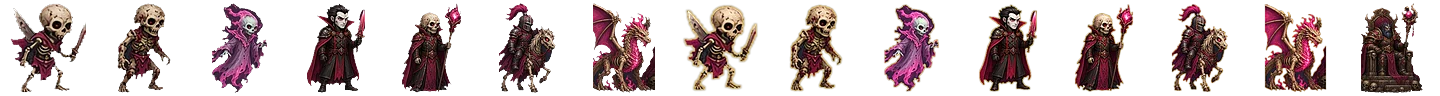
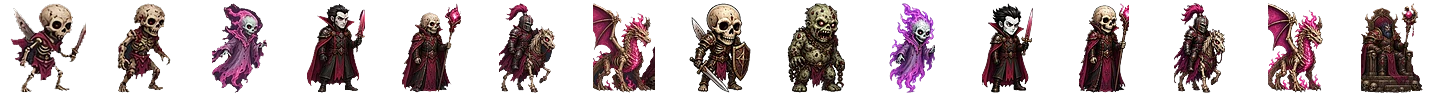
Mini Heroes 1.5.0-dev: Broz redone T1-T7 sheets + T8 replacements (Bear Rider, Arch Fiend, Phoenix, Thunder Titan), real upgrade sprites for all 6 factions, Dwarf T8 renamed Mountain King (old saves migrated), Broz fog-edge strip

Changed region(s): [[0.4688, 0.0312, 0.9375, 0.9688]]

diff --git a/sw.js b/sw.js
@@ -1,4 +1,4 @@
-const V='mg-v28-miniheroes-150',SHELL=['games/miniheroes/','games/miniheroes/data.js','games/miniheroes/sprites.js','games/miniheroes/game.js','games/miniheroes/campaign.js','games/miniheroes/meet.js','games/miniheroes/ui-art-data.js','games/miniheroes/ui-art.js','games/miniheroes/art/icons.webp','games/miniheroes/art/battle-props.webp','games/miniheroes/art/events.webp','games/miniheroes/art/home.webp','games/miniheroes/art/home-i0.webp','games/miniheroes/art/home-i1.webp','games/miniheroes/art/home-i2.webp','games/miniheroes/art/home-i3.webp','games/miniheroes/art/home-i4.webp','games/miniheroes/art/win.webp','games/miniheroes/art/lose.webp','games/miniheroes/render-pixi.js','games/miniheroes/vendor/pixi.min.js','games/miniheroes/art/units.json','games/miniheroes/art/map.json','games/miniheroes/art/map-ground.webp','games/miniheroes/art/map-sprites.webp','games/miniheroes/art/battle-field.webp','games/miniheroes/art/units-castle-ui.webp','games/miniheroes/art/units-necro-ui.webp','games/miniheroes/art/units-sylvan-ui.webp','games/miniheroes/art/units-inferno-ui.webp','games/miniheroes/art/units-stronghold-ui.webp','games/miniheroes/art/units-dwarf-ui.webp','games/miniheroes/art/units-castle.webp','games/miniheroes/art/units-necro.webp','games/miniheroes/art/units-sylvan.webp','games/miniheroes/art/units-inferno.webp','games/miniheroes/art/units-stronghold.webp','games/miniheroes/art/units-dwarf.webp','games/miniheroes/art/town-castle.webp','games/miniheroes/art/town-necro.webp','games/miniheroes/art/town-sylvan.webp','games/miniheroes/art/town-inferno.webp','games/miniheroes/art/town-stronghold.webp','games/miniheroes/art/town-dwarf.webp','games/snake/','games/tank/','games/2048/','games/skyhop/','fonts/PressStart2P.woff2','./','index.html','style.css','ads.js','games.json','manifest.webmanifest','icons/icon-192.png','icons/icon-512.png'];
+const V='mg-v28-miniheroes-150',SHELL=['games/miniheroes/','games/miniheroes/data.js','games/miniheroes/sprites.js','games/miniheroes/game.js','games/miniheroes/campaign.js','games/miniheroes/meet.js','games/miniheroes/ui-art-data.js','games/miniheroes/ui-art.js','games/miniheroes/art/icons.webp','games/miniheroes/art/battle-props.webp','games/miniheroes/art/events.webp','games/miniheroes/art/home.webp','games/miniheroes/art/home-i0.webp','games/miniheroes/art/home-i1.webp','games/miniheroes/art/home-i2.webp','games/miniheroes/art/home-i3.webp','games/miniheroes/art/home-i4.webp','games/miniheroes/art/win.webp','games/miniheroes/art/lose.webp','games/miniheroes/art/fog-edge.webp','games/miniheroes/render-pixi.js','games/miniheroes/vendor/pixi.min.js','games/miniheroes/art/units.json','games/miniheroes/art/map.json','games/miniheroes/art/map-ground.webp','games/miniheroes/art/map-sprites.webp','games/miniheroes/art/battle-field.webp','games/miniheroes/art/units-castle-ui.webp','games/miniheroes/art/units-necro-ui.webp','games/miniheroes/art/units-sylvan-ui.webp','games/miniheroes/art/units-inferno-ui.webp','games/miniheroes/art/units-stronghold-ui.webp','games/miniheroes/art/units-dwarf-ui.webp','games/miniheroes/art/units-castle.webp','games/miniheroes/art/units-necro.webp','games/miniheroes/art/units-sylvan.webp','games/miniheroes/art/units-inferno.webp','games/miniheroes/art/units-stronghold.webp','games/miniheroes/art/units-dwarf.webp','games/miniheroes/art/town-castle.webp','games/miniheroes/art/town-necro.webp','games/miniheroes/art/town-sylvan.webp','games/miniheroes/art/town-inferno.webp','games/miniheroes/art/town-stronghold.webp','games/miniheroes/art/town-dwarf.webp','games/snake/','games/tank/','games/2048/','games/skyhop/','fonts/PressStart2P.woff2','./','index.html','style.css','ads.js','games.json','manifest.webmanifest','icons/icon-192.png','icons/icon-512.png'];
 self.addEventListener('install',e=>{e.waitUntil(caches.open(V).then(c=>c.addAll(SHELL)));self.skipWaiting()});
 self.addEventListener('activate',e=>{e.waitUntil(caches.keys().then(k=>Promise.all(k.filter(n=>n!==V).map(n=>caches.delete(n)))).then(()=>self.clients.claim()))});
 self.addEventListener('fetch',e=>{const r=e.request,u=new URL(r.url);if(r.method!=='GET'||u.origin!==location.origin)return;

diff --git a/games/miniheroes/ui-art.js b/games/miniheroes/ui-art.js
@@ -43,12 +43,28 @@
     g.globalAlpha = pa * Math.min(1, (1 - t) * 3); g.drawImage(c, x - w / 2, y - w / 2 - (e.k === 'lightning' ? w * 0.25 : 0), w, w); g.globalAlpha = pa;
   };
   // ---- soft fog edges: 1 px per tile, scaled up with smoothing (a cheap gradient; no per-pixel loops)
-  drawFog = function (c) {
+  // Broz fog edge strip (dark left -> clear right, tiles along y), rotated per side over revealed tiles next to fog
+  const fogEdge = img('fog-edge.webp'); fogEdge.onload = () => { try { if (layers) layers.fogN = -1; } catch (e) {} };
+  const softFog = function (c) {
     c.width = WW; c.height = WH; const g = c.getContext('2d'), s = document.createElement('canvas'); s.width = MW + 2; s.height = MH + 2; const sg = s.getContext('2d');
     sg.fillStyle = '#05050c'; sg.fillRect(0, 0, MW + 2, MH + 2); for (let y = 0; y < MH; y++) for (let x = 0; x < MW; x++) if (G.fog[y][x]) sg.clearRect(x + 1, y + 1, 1, 1);
     const m = document.createElement('canvas'); m.width = (MW + 2) * 4; m.height = (MH + 2) * 4; const mg = m.getContext('2d'); mg.imageSmoothingEnabled = true; mg.drawImage(s, 0, 0, m.width, m.height);
     g.imageSmoothingEnabled = true; g.drawImage(m, -TS, -TS, (MW + 2) * TS, (MH + 2) * TS);
     for (let y = 0; y < MH; y++) for (let x = 0; x < MW; x++) if (!G.fog[y][x]) { let n = 0; for (const [dx, dy] of DIRS8) if (inMap(x + dx, y + dy) && G.fog[y + dy][x + dx]) n++; if (!n) { g.fillStyle = '#05050c'; g.fillRect(x * TS, y * TS, TS, TS); } }
+  };
+  drawFog = function (c) {
+    if (!fogEdge.complete || !fogEdge.naturalWidth) return softFog(c);
+    c.width = WW; c.height = WH; const g = c.getContext('2d'); g.fillStyle = '#05050c'; g.imageSmoothingEnabled = true;
+    const fogged = (x, y) => inMap(x, y) && !G.fog[y][x], D = TS * 0.8, sh = fogEdge.naturalHeight / 4;
+    for (let y = 0; y < MH; y++) for (let x = 0; x < MW; x++) if (!G.fog[y][x]) g.fillRect(x * TS, y * TS, TS, TS);
+    for (let y = 0; y < MH; y++) for (let x = 0; x < MW; x++) {
+      if (!G.fog[y][x]) continue;
+      for (const [dx, dy, rot] of [[-1, 0, 0], [0, -1, 1], [1, 0, 2], [0, 1, 3]]) {
+        if (!fogged(x + dx, y + dy)) continue;
+        const sy = ((x * 7 + y * 13 + rot) % 4) * sh; g.save(); g.translate(x * TS + TS / 2, y * TS + TS / 2); g.rotate(rot * Math.PI / 2);
+        g.drawImage(fogEdge, 0, sy, fogEdge.naturalWidth, sh, -TS / 2, -TS / 2 - 2, D, TS + 4); g.restore();
+      }
+    }
   };
   // ---- shrine / spell learning popup + artifact popup art
   CELE_COL.spell = ['#b07cff', '#e2ccff'];

diff --git a/games/miniheroes/campaign.js b/games/miniheroes/campaign.js
@@ -3,9 +3,10 @@
 'use strict';
 const CAMP_KEY = 'mh-campaign';
 // Tier-8 mythical creatures (one per player, quest reward only)
-const MYTHIC = {castle: 'Archangel', necro: 'Lich King', sylvan: 'Phoenix', inferno: 'Arch Fiend', stronghold: 'Thunder Titan', dwarf: 'Forge Colossus'};
+const MYTHIC = {castle: 'Archangel', necro: 'Lich King', sylvan: 'Phoenix', inferno: 'Arch Fiend', stronghold: 'Thunder Titan', dwarf: 'Mountain King'};
 const MYTHIC_BASE = {castle: 'Champion', necro: 'Ghost Dragon', sylvan: 'Emerald Dragon', inferno: 'Arch Devil', stronghold: 'Ancient Behemoth', dwarf: 'Thunder Dreadnought'};
 for (const f in MYTHIC) { const b = UNITS[MYTHIC_BASE[f]]; UNITS[MYTHIC[f]] = {...b, fac: f, tier: 7, up: true, upName: null, base: MYTHIC[f], att: b.att + 6, def: b.def + 6, hp: Math.round(b.hp * 1.8), dmg: b.dmg.map(d => Math.round(d * 1.5)), move: b.move + 1, ab: [...new Set([...b.ab, 'Fly', 'SpellImm'])], cost: 9000, growth: 0, col: '#fcfc54', mythic: 1}; }
+UNITS['Forge Colossus'] = UNITS['Mountain King']; // 1.5 rename (old saves / campaign carry)
 SPR.mythicLook && SPR.mythicLook(MYTHIC_BASE, MYTHIC);
 const SAY = (who, t) => ({who, t});
 const MISSIONS = [

diff --git a/games/miniheroes/data.js b/games/miniheroes/data.js
@@ -56,7 +56,7 @@ const UNIT_DEFS = [
 ];
 const FACTION_UNITS = {};
 // 1.3 hex-field retune (6 neighbours, 22x16 wrapped field): price multiplier per faction for tiers 1-3 / 4-5 / 6-7
-const HEX_TUNE = {castle: [1.016, 0.94, 0.985], necro: [0.95, 1.04, 0.93], sylvan: [1.02, 0.97, 0.93], inferno: [0.992, 0.98, 1.035], stronghold: [1.012, 1.04, 1.025], dwarf: [0.995, 0.97, 1.0]};
+const HEX_TUNE = {castle: [1.016, 0.94, 0.985], necro: [0.95, 1.04, 0.97], sylvan: [1.02, 0.97, 0.88], inferno: [0.992, 0.98, 1.035], stronghold: [1.012, 1.04, 1.025], dwarf: [0.995, 0.97, 1.0]};
 for (const [fac, tier, base, up, ab, ab2, m, col] of UNIT_DEFS) {
   const [att, def, hp, dmg, move, cost, growth] = TIER_T[tier];
   const mk = (name, isUp) => {

diff --git a/games/miniheroes/game.js b/games/miniheroes/game.js
@@ -2030,6 +2030,7 @@ function migrate(g) {
   }
   g.heroes.forEach(h => { h.sk = h.sk || {}; if (!h.tal) { h.tal = {}; h.tp = Math.max(0, h.lvl - 1); } });
   setDims(g.map); layers = null;
+  const ren = a => a && a.forEach(s => { if (s.type === 'Forge Colossus') s.type = 'Mountain King'; }); (g.heroes || []).forEach(h => ren(h.army)); (g.towns || []).forEach(t => ren(t.garrison));
   return g;
 }
 function startGame(fn, note) {

diff --git a/tools/miniheroes-art/build_atlas.py b/tools/miniheroes-art/build_atlas.py
@@ -25,7 +25,7 @@ FACTIONS = {
   'sylvan': (['Sprite', 'Wolf Rider', 'Elf Archer', 'Druid', 'Unicorn', 'Treant', 'Green Dragon'], ['Faerie', 'Moon Rider', 'Grand Elf', 'Elder Druid', 'Silver Unicorn', 'Ancient Treant', 'Emerald Dragon'], 'Phoenix'),
   'inferno': (['Imp', 'Hell Hound', 'Succubus', 'Demon', 'Efreet', 'Pit Fiend', 'Devil'], ['Familiar', 'Cerberus', 'Temptress', 'Horned Demon', 'Efreet Sultan', 'Pit Lord', 'Arch Devil'], 'Arch Fiend'),
   'stronghold': (['Goblin', 'Wolf Raider', 'Orc Axeman', 'Ogre Shaman', 'Roc', 'Cyclops', 'Behemoth'], ['Hobgoblin', 'Warg Raider', 'Orc Chieftain', 'Ogre Magi', 'Thunderbird', 'Cyclops King', 'Ancient Behemoth'], 'Thunder Titan'),
-  'dwarf': (['Miner', 'Shieldbearer', 'Crossbow Engineer', 'Runesmith', 'Bear Rider', 'Steam Golem', 'Iron Dreadnought'], ['Foreman', 'Shieldguard', 'Siege Engineer', 'Runelord', 'Bear Lord', 'Iron Golem', 'Thunder Dreadnought'], 'Forge Colossus'),
+  'dwarf': (['Miner', 'Shieldbearer', 'Crossbow Engineer', 'Runesmith', 'Bear Rider', 'Steam Golem', 'Iron Dreadnought'], ['Foreman', 'Shieldguard', 'Siege Engineer', 'Runelord', 'Bear Lord', 'Iron Golem', 'Thunder Dreadnought'], 'Mountain King'),
 }
 MYTHIC_ORDER = ['castle', 'necro', 'sylvan', 'inferno', 'stronghold', 'dwarf']
 CUTS = {'castle-base': [172, 352, 481, 700, 875, 1019], 'castle-up': [185, 362, 506, 722, 893, 1030],
@@ -152,9 +152,15 @@ def frames(fig, fly):
 
 # ---- Broz's chibi sheets (navy background, 8 figures T1..T8 with labels underneath) ----
 BROZ = {  # faction: (sheet in src/broz, Broz column -> data tier order)
-    'necro': (1, [0, 1, 2, 3, 4, 5, 6]), 'sylvan': (0, [0, 1, 2, 3, 4, 5, 6]),
-    'inferno': (11, [0, 1, 3, 2, 4, 5, 6]),      # Broz T3 horned demon = our T4 Demon, Broz T4 succubus = our T3 Succubus
-    'stronghold': (10, [0, 1, 2, 3, 4, 5, 6]), 'dwarf': (9, [0, 2, 1, 3, 4, 5, 6])}  # Broz T2 crossbow / T3 shield swapped vs data
+    # redone sheets (Nov 1): T1-T7 match the data order
+    'necro': (23, [0, 1, 2, 3, 4, 5, 6]), 'sylvan': (22, [0, 1, 2, 3, 4, 5, 6]), 'inferno': (20, [0, 1, 2, 3, 4, 5, 6]),
+    'stronghold': (21, [0, 1, 2, 3, 4, 5, 6]), 'dwarf': (19, [0, 1, 2, 3, 4, 5, 6])}
+# replacement sheet (white bg, 4 figures with captions): (column -> faction, slot) where slot 0-6 = base tier, 7 = mythic
+FIX_SHEET, FIXES = 18, {0: ('dwarf', 4), 1: ('inferno', 7), 2: ('sylvan', 7), 3: ('stronghold', 7)}
+def fix_figs():
+    im = Image.open(os.path.join(HERE, 'src', 'broz', str(FIX_SHEET) + '.jpg')).convert('RGB'); w, h = im.size
+    im = im.crop((0, 0, w, int(h * 0.74))); rgba = cut_background(im); q = w // 4
+    return [clean(rgba.crop((i * q, 0, (i + 1) * q, rgba.height))) for i in range(4)]
 ARCHANGEL = 8
 def cut_navy(im):
     im = im.convert('RGB'); w, h = im.size; px = im.load()
@@ -193,11 +199,51 @@ def elite(fig):  # upgraded look for Broz's base art: warm gold rim + a touch br
     big = Image.new('L', (W2, H2), 0); big.paste(a, (pad, pad)); rim = big.filter(ImageFilter.MaxFilter(5)).filter(ImageFilter.GaussianBlur(1.2))
     out = Image.new('RGBA', (W2, H2), (255, 196, 64, 0)); out.putalpha(rim.point(lambda v: int(v * 0.85)))
     f2 = ImageEnhance.Color(ImageEnhance.Brightness(fig).enhance(1.08)).enhance(1.18); out.alpha_composite(f2, (pad, pad)); return out
+def drop_edge_bits(im):  # remove neighbour fragments: alpha blobs touching the left/right crop edge that are much smaller than the main figure
+    a = im.getchannel('A'); w, h = a.size; px = a.load(); lab = [0] * (w * h); comps = []
+    for y0 in range(h):
+        for x0 in range(w):
+            if px[x0, y0] < 40 or lab[y0 * w + x0]: continue
+            cid = len(comps) + 1; st = [(x0, y0)]; lab[y0 * w + x0] = cid; n = 0; edge = False; pts = []
+            while st:
+                x, y = st.pop(); n += 1; pts.append((x, y)); edge |= x <= 1 or x >= w - 2
+                for nx, ny in ((x + 1, y), (x - 1, y), (x, y + 1), (x, y - 1)):
+                    if 0 <= nx < w and 0 <= ny < h and not lab[ny * w + nx] and px[nx, ny] >= 40: lab[ny * w + nx] = cid; st.append((nx, ny))
+            comps.append((n, edge, pts))
+    if not comps: return im
+    big = max(c[0] for c in comps); out = im.copy(); op = out.load()
+    for n, edge, pts in comps:
+        if edge and n < big * 0.3:
+            for x, y in pts: op[x, y] = (0, 0, 0, 0)
+    return out
+UPSHEET = {'dwarf': 25, 'stronghold': 26, 'sylvan': 27, 'inferno': 28, 'castle': 29, 'necro': 30}  # Broz upgrade sheets: white bg, T1-T7 upgraded, captions below
+def up_figs(fac, n=7):
+    im = Image.open(os.path.join(HERE, 'src', 'broz', str(UPSHEET[fac]) + '.jpg')).convert('RGB'); w, h = im.size; px = im.load()
+    rows = [sum(1 for x in range(0, w, 2) if max(px[x, y]) < 110) for y in range(h)]
+    y = h - 1
+    while y > h // 2 and rows[y] < 2: y -= 1
+    bot = y
+    while y > h // 2 and any(rows[yy] >= 2 for yy in range(max(0, y - 14), y)): y -= 1
+    top = y - 4
+    cols = [sum(1 for yy in range(top + 4, bot + 1) if max(px[x, yy]) < 110) for x in range(w)]
+    cl, x = [], 0
+    while x < w:
+        if cols[x]:
+            s0 = e0 = x
+            while x < w and (cols[x] or any(cols[x:x + 26])): e0 = x if cols[x] else e0; x += 1
+            cl.append((s0 + e0) / 2)
+        x += 1
+    if len(cl) != n: raise SystemExit(f'upgrade sheet {fac}: found {len(cl)} captions, expected {n}')
+    rgba = cut_background(im.crop((0, 0, w, top)))
+    cuts = [0] + [round((cl[i] + cl[i + 1]) / 2) for i in range(n - 1)] + [w]
+    return [clean(drop_edge_bits(rgba.crop((cuts[i], 0, cuts[i + 1], rgba.height)))) for i in range(n)]
+def match_h(figs, ref, k=1.06):  # size each upgrade to its base figure (upgrades read slightly bigger)
+    return [f.resize((max(1, round(f.width * r.height * k / f.height)), round(r.height * k)), Image.LANCZOS) for f, r in zip(figs, ref)]
 def broz_figs(idx, n=8):
     rgba = cut_navy(Image.open(os.path.join(HERE, 'src', 'broz', str(idx) + '.jpg'))); c = rgba.info['centers']
     if len(c) != n: raise SystemExit(f'broz sheet {idx}: found {len(c)} labels, expected {n}')
     cuts = [0] + [round((c[i] + c[i + 1]) / 2) for i in range(n - 1)] + [rgba.width]
-    return [clean(rgba.crop((cuts[i], 0, cuts[i + 1], rgba.height))) for i in range(n)]
+    return [clean(drop_edge_bits(rgba.crop((cuts[i], 0, cuts[i + 1], rgba.height)))) for i in range(n)]
 
 def main():
     os.makedirs(OUT, exist_ok=True); os.makedirs(PREV, exist_ok=True)
@@ -205,7 +251,7 @@ def main():
     o = 0
     for k, n in ANIMS.items(): man['anims'][k] = [o, n]; o += n
     nfr = o; myth = {}
-    mfigs = None
+    mfigs = None; global FIXF; FIXF = fix_figs()
     mr = cut_background(Image.open(os.path.join(HERE, 'src', 'mythic.jpg')))
     mraw = [clean(mr.crop((max(0, a - 2), 0, min(mr.width, b + 2), mr.height))) for a, b in segments(mr, 6, 'mythic')]
     for fac, (base, up, mname) in FACTIONS.items():
@@ -215,14 +261,20 @@ def main():
             myth[fac] = scale_row([clean(ar)] * 3)[0]
         rows = []
         if fac in BROZ:
-            sh, order = BROZ[fac]; bf = broz_figs(sh); bs = scale_row([bf[order[i]] for i in range(7)] + [bf[7]])
-            rows = list(zip(base, bs[:7])) + list(zip(up, scale_row([elite(bf[order[i]]) for i in range(7)] + [elite(bf[7])])[:7]))
+            sh, order = BROZ[fac]; bf = broz_figs(sh)
+            for c, (ff, slot) in FIXES.items():
+                if ff == fac:
+                    j = order[slot] if slot < 7 else 7; old = bf[j]; nf = FIXF[c]; k = old.height / nf.height  # match the replaced figure's size on the sheet
+                    bf[j] = nf.resize((max(1, round(nf.width * k)), old.height), Image.LANCZOS)
+            bs = scale_row([bf[order[i]] for i in range(7)] + [bf[7]])
+            rows = list(zip(base, bs[:7])) + list(zip(up, match_h(up_figs(fac), bs[:7])))
             myth[fac] = bs[7]
         for key, names in (() if fac in BROZ else ((fac + '-base', base), (fac + '-up', up))):
             rgba = cut_background(Image.open(os.path.join(HERE, 'src', key + '.jpg')))
             crops = [rgba.crop((max(0, a - 2), 0, min(rgba.width, b + 2), rgba.height)) for a, b in segments(rgba, 7, key)]
             if key == 'castle-up': crops[1] = degreen(crops[1])  # neighbour's quiver arrows overlap the halberd
             figs = scale_row([clean(c) for c in crops])
+            if key == 'castle-up': figs = match_h(up_figs('castle'), [f for _, f in rows[:7]])
             rows += list(zip(names, figs)); raws = None
         rows.append((mname, myth[fac]))
         atlas = Image.new('RGBA', (CELL * nfr, CELL * len(rows)), (0, 0, 0, 0)); ui = Image.new('RGBA', (UI * len(rows), UI), (0, 0, 0, 0))

diff --git a/tools/miniheroes-art/build_ui.py b/tools/miniheroes-art/build_ui.py
@@ -74,3 +74,11 @@ ev = [(k, unnavy(crop(3, x, 190, 230, 180), 46)) for k, x in [('chest', 183), ('
 J['events'] = pack('events', ev, 256, 3)
 open(os.path.join(OUT, '..', 'ui-art-data.js'), 'w').write('// generated by tools/miniheroes-art/build_ui.py\nconst UIA = ' + json.dumps(J, separators=(',', ':')) + ';\n')
 for f in ['icons', 'battle-props', 'events']: print(f, os.path.getsize(os.path.join(OUT, f + '.webp')) // 1024, 'KB')
+# --- fog edge strip (sheet 24, white bg): dark at the left fading right; alpha from darkness, tinted fog colour.
+fe = Image.open(os.path.join(SRC, '24.jpg')).convert('L'); fw, fh = fe.size
+fe = fe.crop((0, int(fh * 0.12), int(fw * 0.62), int(fh * 0.88))).resize((128, 256), Image.LANCZOS)
+al = fe.point(lambda v: max(0, min(255, int((235 - v) * 1.35))))
+ramp = Image.linear_gradient('L').rotate(90, expand=True).resize((128, 256)).point(lambda v: max(0, 255 - v * 6))  # solid at the fog side so it meets the opaque fog
+from PIL import ImageChops
+al = ImageChops.lighter(al, ramp); fog = Image.new('RGBA', fe.size, (5, 5, 12, 255)); fog.putalpha(al); fog.save(os.path.join(OUT, 'fog-edge.webp'), 'WEBP', quality=85)
+print('fog-edge', os.path.getsize(os.path.join(OUT, 'fog-edge.webp')) // 1024, 'KB')
